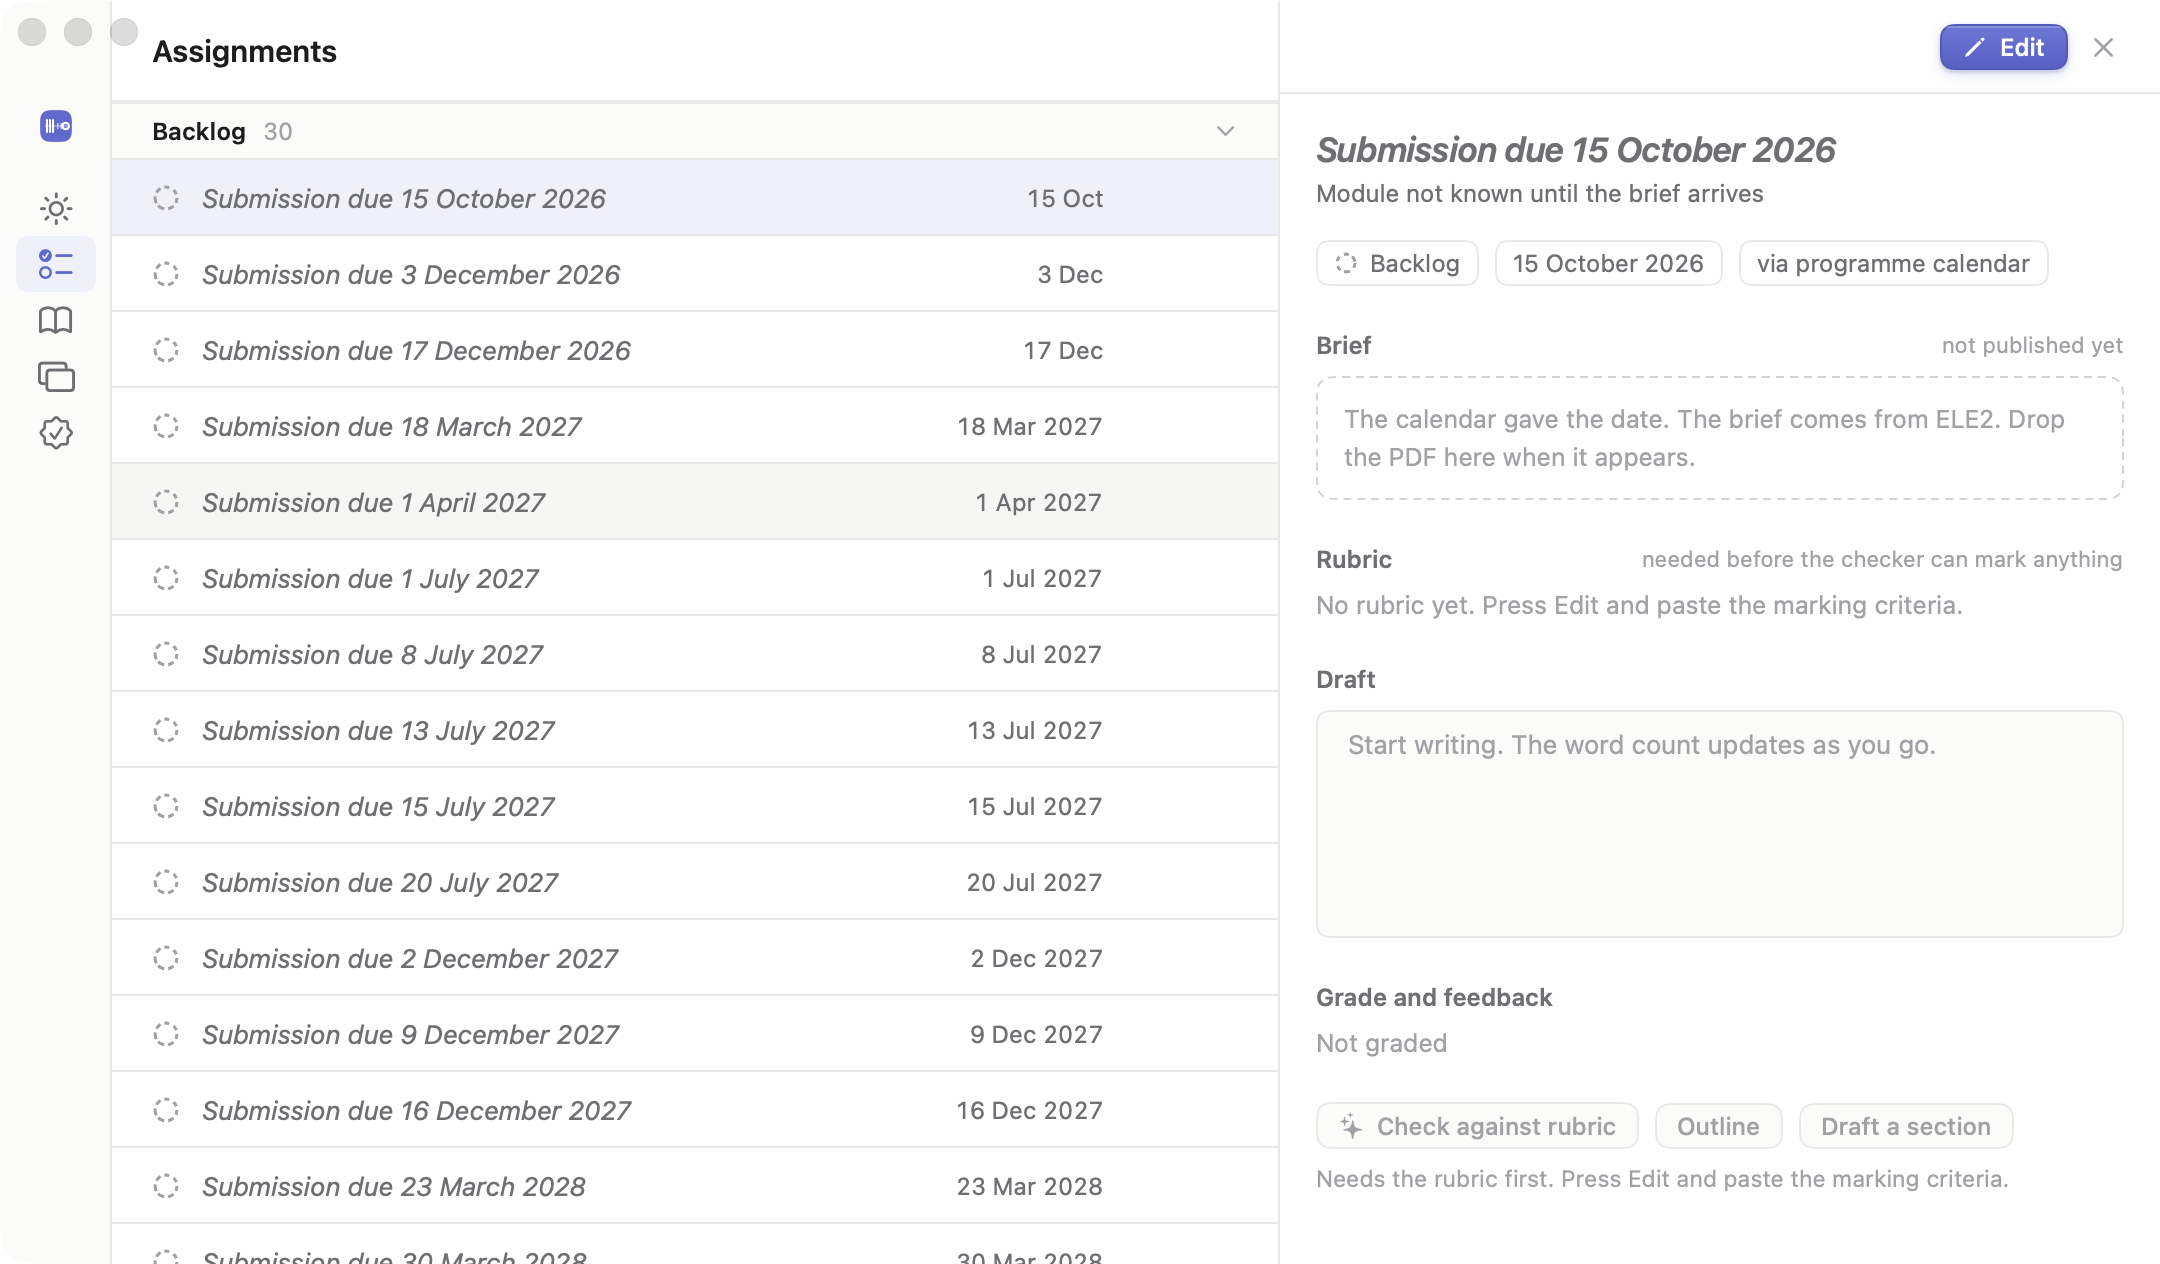
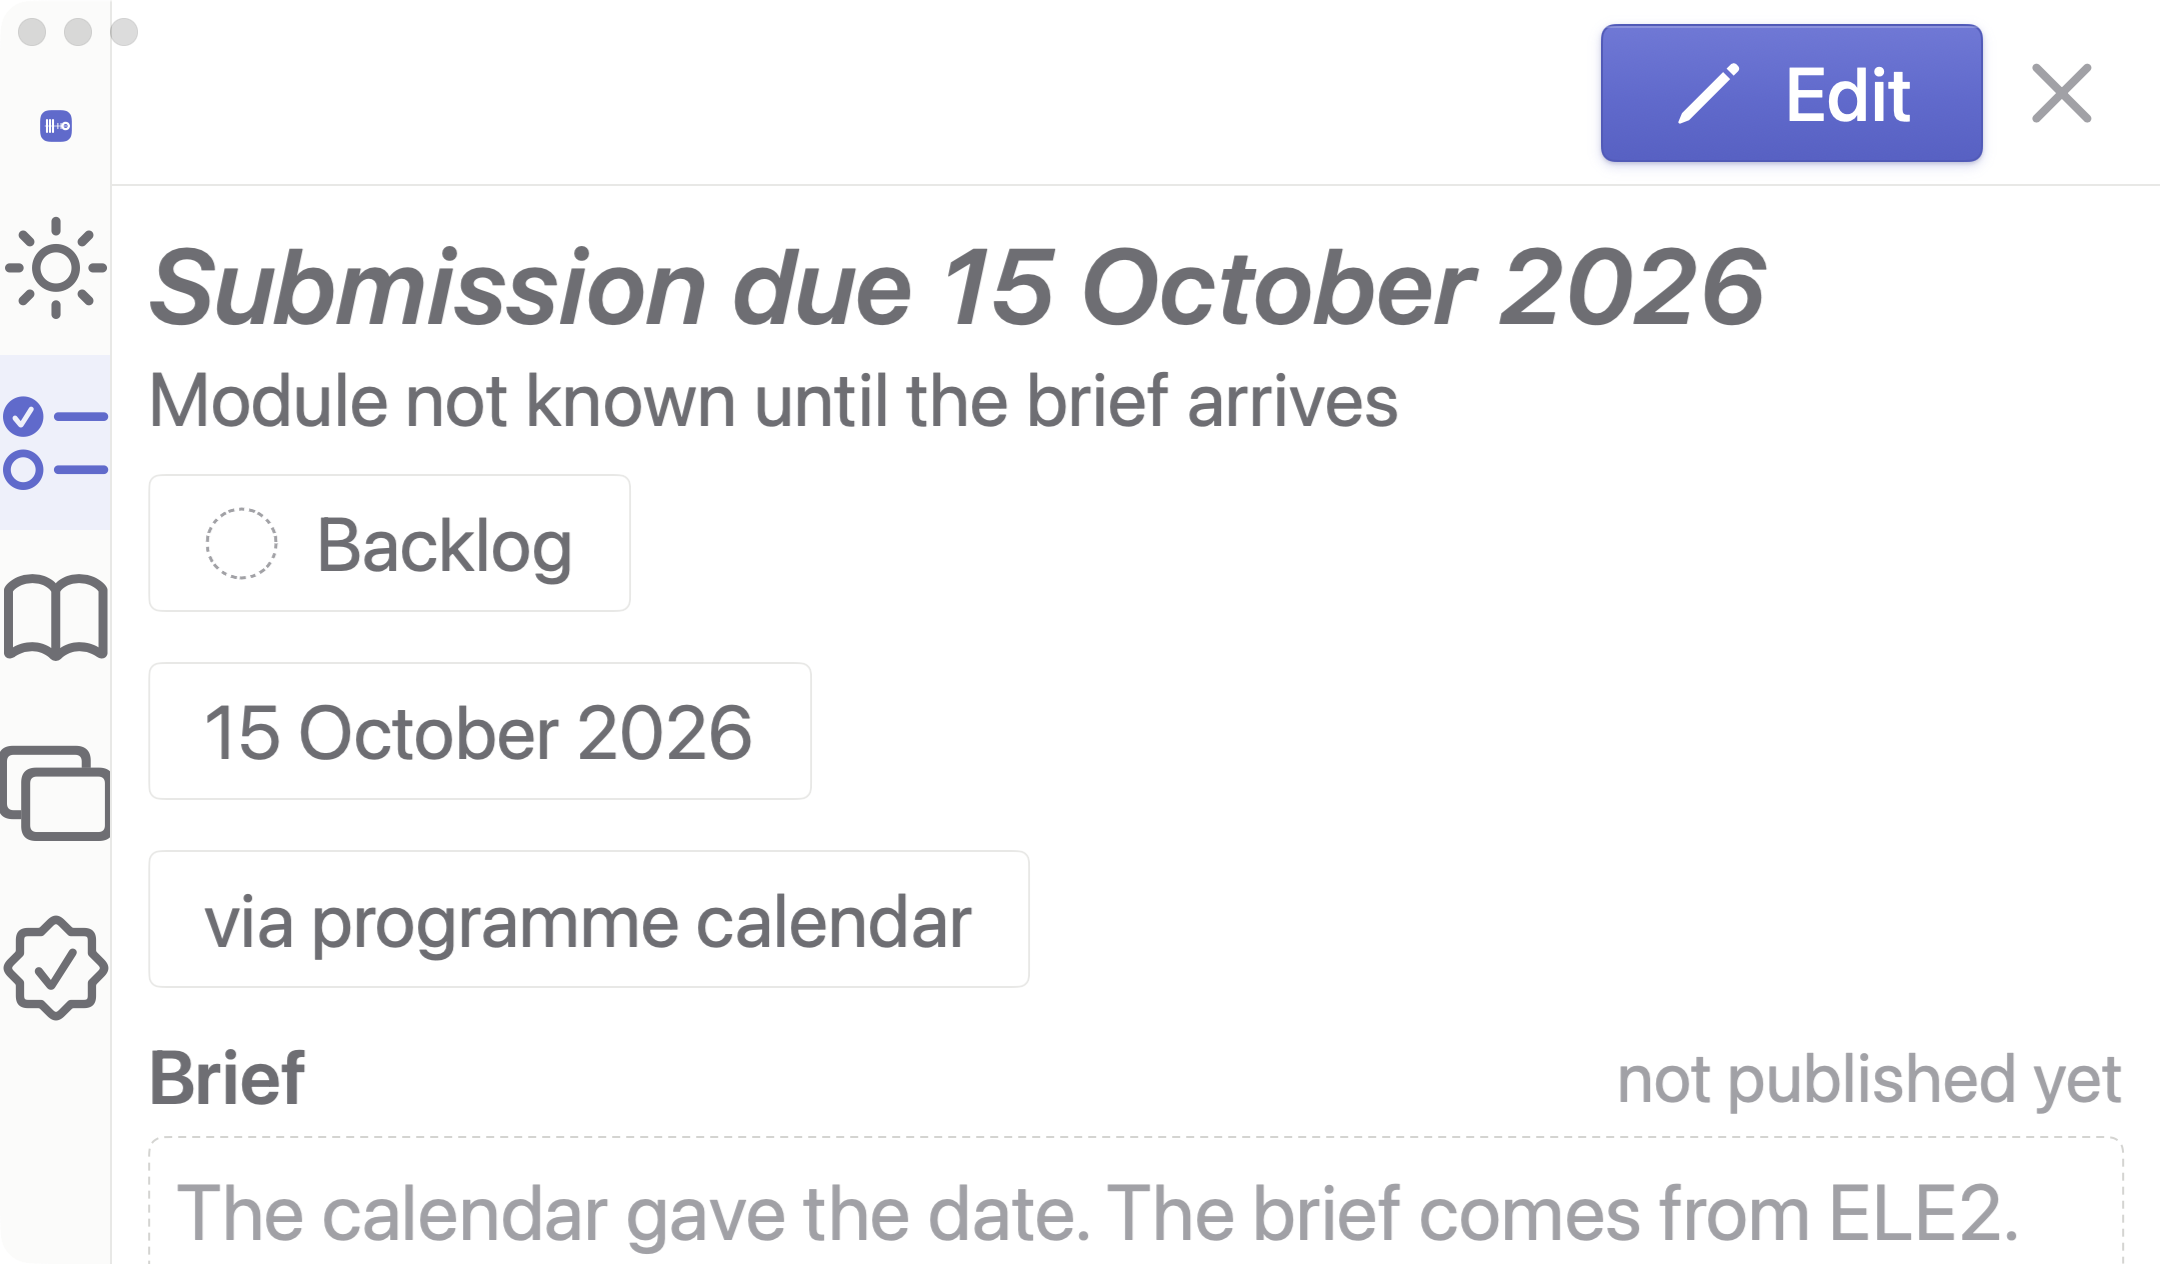
Document the Dynamic Type decision and refresh the screenshots at all three sizes

diff --git a/docs/decisions.md b/docs/decisions.md
@@ -264,9 +264,8 @@ content in that arrangement; the app was never at fault.
 largest accessibility text sizes without clipping on a 13-inch screen) require. Screenshots
 in `docs/screenshots` are now real captures.
 
-**Still open:** §9's exact point sizes do not scale with Dynamic Type, so §16's "largest
-accessibility sizes" is only met by the system controls today. `SBType` needs a scale factor
-per `DynamicTypeSize` before that row can be called done.
+**Resolved the same day:** the spec's Typography patch made §9's sizes base values; see
+"One scale factor for text and the layout that follows it" below.
 
 ## 2026-09-15 · The brief is a drop zone until a brief exists
 
@@ -401,3 +400,27 @@ arrives when there are screens to jump to (a session's notes, a block in Block m
 **Why:** today a tap on a submission could only open the Assignments list, which the deadline
 card above it already does. Deadline density shading is also left for later, per §9's "worth
 building" list.
+
+## 2026-09-15 · One scale factor for text and the layout that follows it
+
+**Spec said (§9 Typography, patched):** every size is a base value; `SBType` scales it by the
+Dynamic Type category; row heights, icon frames, chip and button padding, measures and icon
+gaps scale with it; hairlines, module dots, the term strip's marks and the 56pt rail do not.
+
+**Decision:** `SBScale` in the environment, derived from `dynamicTypeSize` with the system's
+body ramp (17pt body at each size, divided by 17, so 3.1× at the largest). `sbType(_:)` and
+`sbFont(_:weight:design:)` are the only ways a view names a size; `swiftlint`-visible
+`.system(size:)` calls are gone from every view. Metrics go through `scale(_:)`, rounded to
+half a point.
+
+**What reflows rather than clipping at accessibility sizes:** list rows put the title on its
+own line and the columns beneath, and drop empty columns; sidebar labels wrap to two lines;
+the screen header stacks title over controls; the detail panel's chips stack; the detail
+panel takes the whole content pane instead of a third column, since a 13-inch window cannot
+hold three; the title field wraps to three lines. System pickers step up to `.large`.
+
+**Two judgement calls:** the sidebar grows with text only up to 1.8×, enough for
+"Assignments" to fit on one line at the largest size, so it never eats the content pane; and
+the detail panel's width grows only to 1.4× when it is still a third column.
+
+**Checked** in a 1080×600 window at `accessibility5` (`docs/screenshots/*-accessibility5`).

diff --git a/README.md b/README.md
@@ -146,6 +146,11 @@ Sync and the server, before any AI (§13). Two Macs can now diverge offline and 
   blocks as accent marks, Monday sessions as ticks, submissions as hollow amber rings, today
   as a rule, with the spoken summary §16 asks for. `TermStrip` in Kit decides, `TermStripView`
   in UI draws.
+- **Dynamic Type** (§9 patched, §16): every text size is a base value scaled by `SBScale`
+  from the Dynamic Type size, along with row heights, paddings and icon frames; hairlines,
+  module dots, the term strip and the 56pt rail stay fixed. Dense rows reflow to two lines at
+  accessibility sizes instead of clipping. `docs/screenshots/*-accessibility5` show the
+  largest size in a 1080×600 window.
 - **Settings → Sync** pairs a Mac with a six-word code, shows the status in plain words, and
   can sync now or unpair. Today shows one quiet line only after an hour of failed syncs.
 - **Tests**: `SyncMergeTests` (Core), `SyncEngineTests` and `SyncStoreTests` (Kit, two
